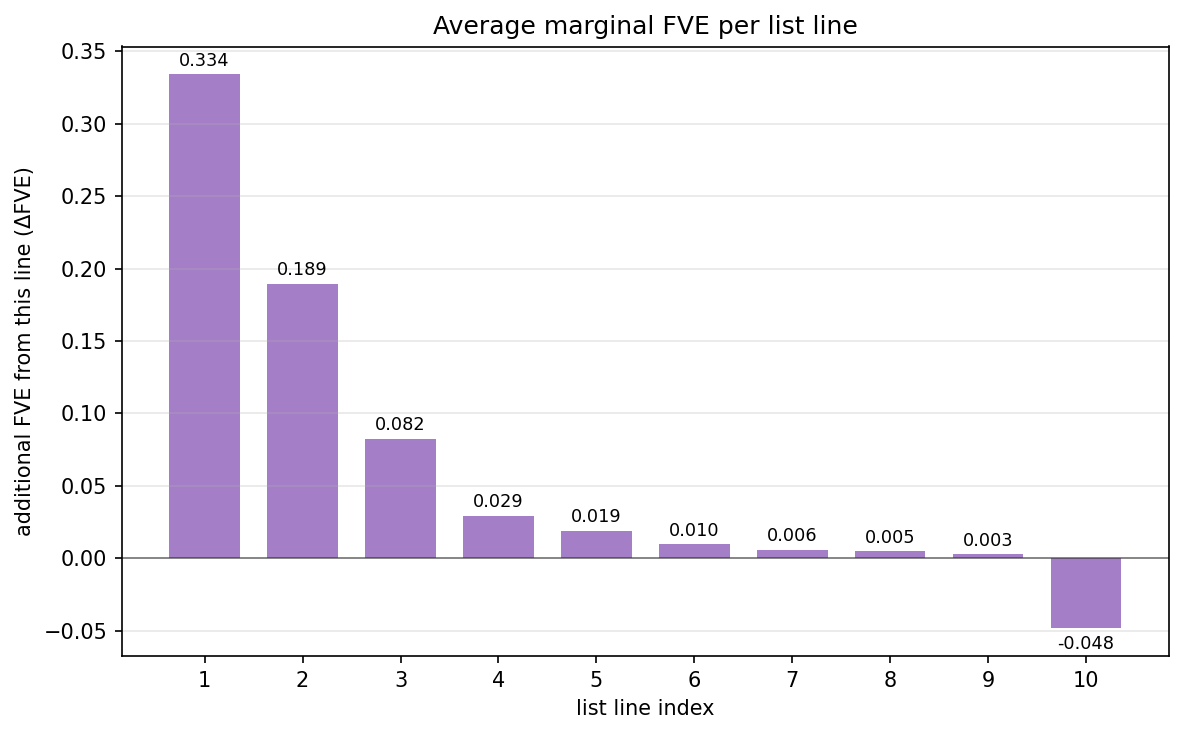
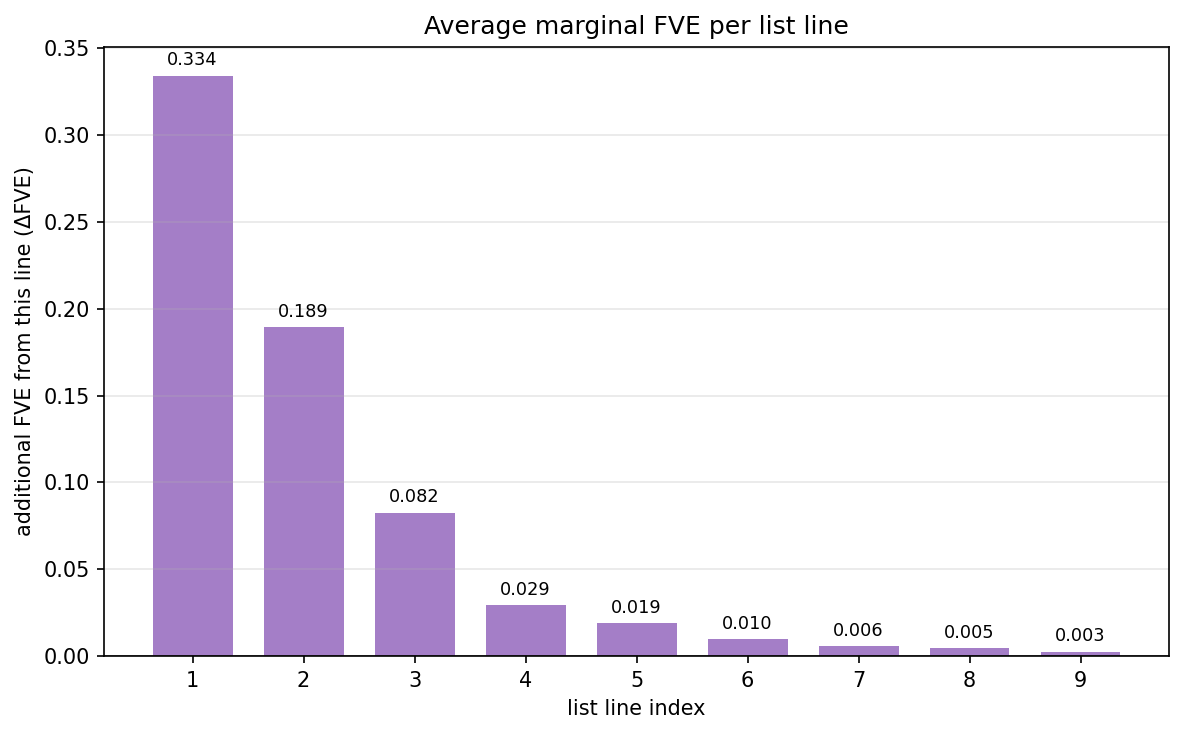
📊 fig6 solo: lines 1-9 only
Claude-Session: https://claude.ai/code/session_013QpD8gUKVwdg5FeGc2gDm2

diff --git a/experiments/qwen2.5-matryoshka-warmstart-sonnet46/post_figs/plot_marginal_perline.py b/experiments/qwen2.5-matryoshka-warmstart-sonnet46/post_figs/plot_marginal_perline.py
@@ -69,7 +69,7 @@ else:
 # ---- solo (no-control) variant ----
 if ours:
     fig, ax = plt.subplots(figsize=(8.0, 5.0))
-    ks, m = marginal(ours)
+    ks, m = marginal(ours, kmax=9)
     ax.bar(ks, m, color=C_OURS, alpha=.85, width=0.72)
     for k, v in zip(ks, m):
         ax.text(k, v + (0.006 if v >= 0 else -0.014), f"{v:.3f}", ha="center", fontsize=8.5)
@@ -77,6 +77,6 @@ if ours:
     ax.set_xlabel("list line index")
     ax.set_ylabel("additional FVE from this line (ΔFVE)")
     ax.set_title("Average marginal FVE per list line")
-    ax.set_xticks(range(1, K + 1)); ax.grid(alpha=.3, axis="y")
+    ax.set_xticks(range(1, 10)); ax.grid(alpha=.3, axis="y")
     fig.tight_layout(); fig.savefig(f"{HERE}/fig6_marginal_perline_solo.png", dpi=150, bbox_inches="tight")
     plt.close(fig); print("fig6 solo ok")
